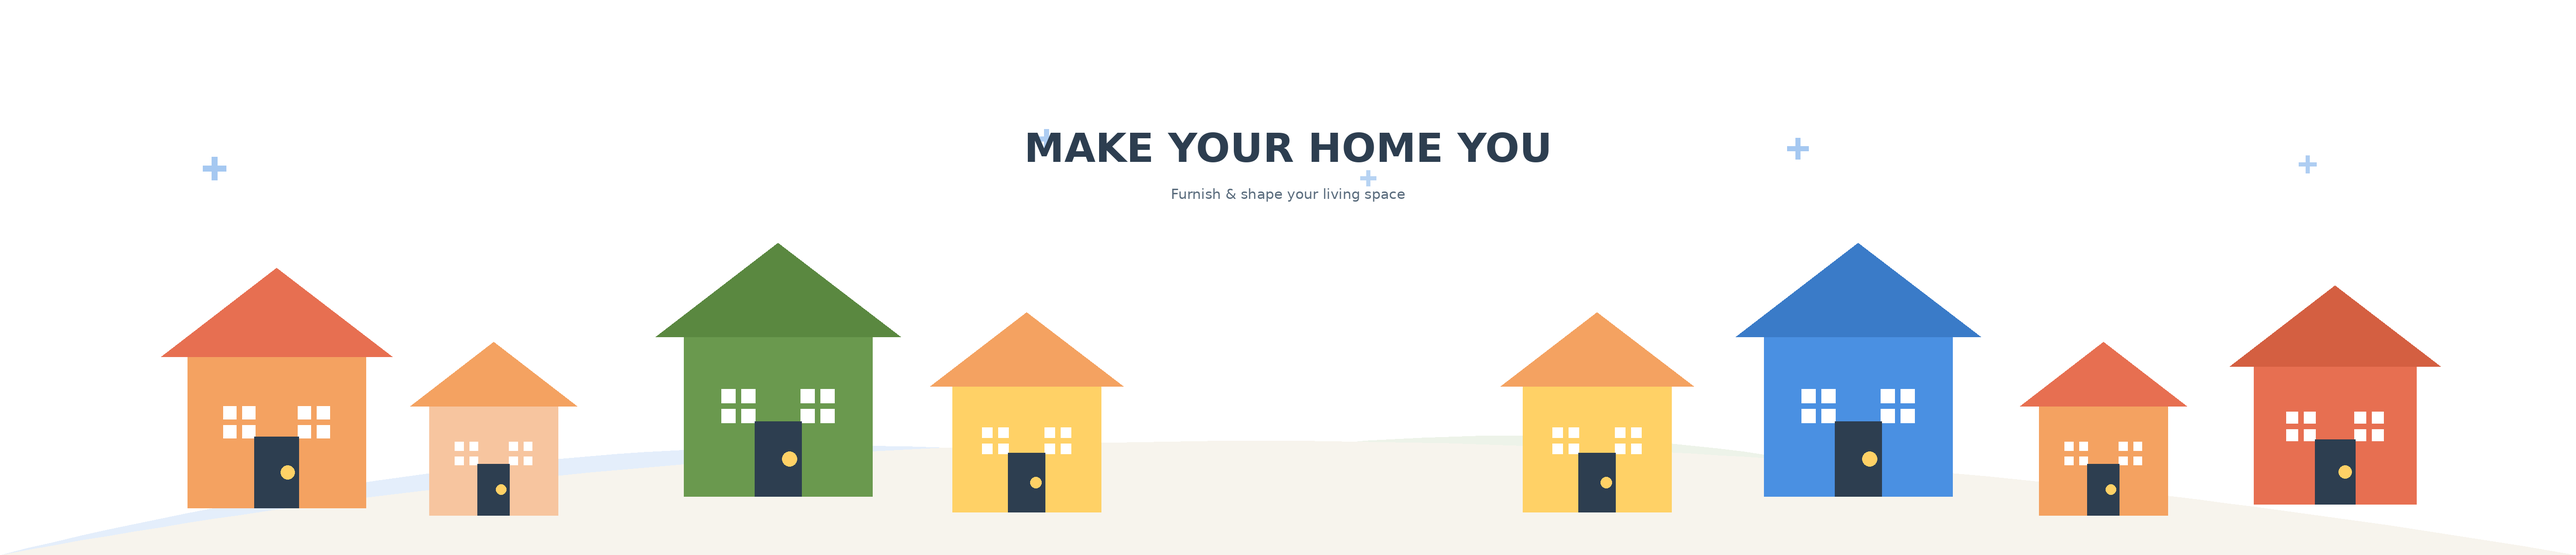
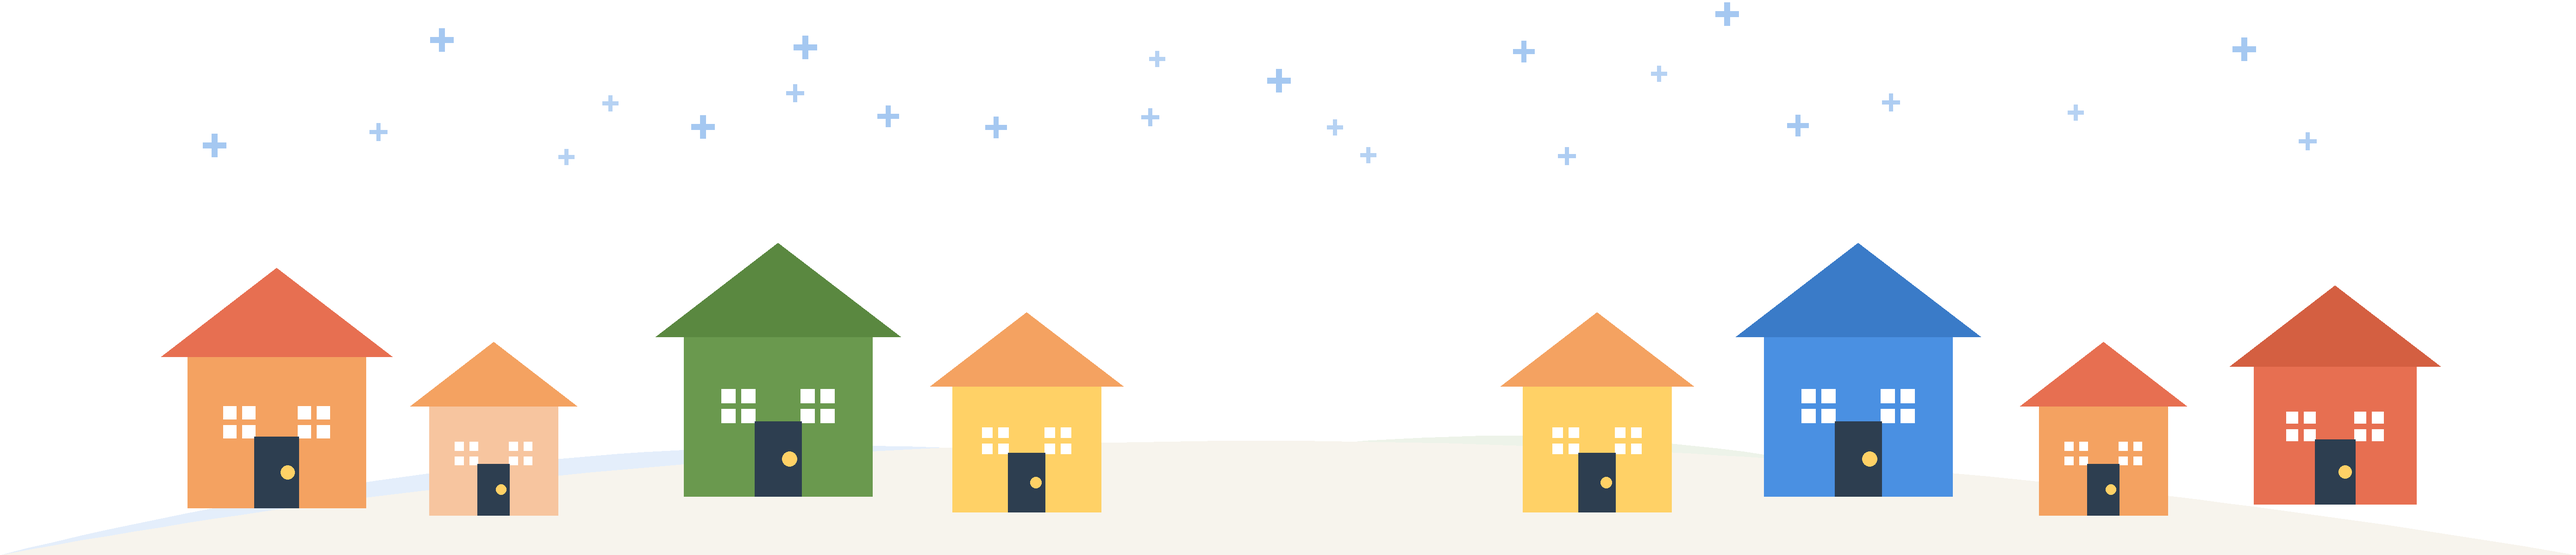
feat: update homepage hero and daily pick

diff --git a/homebuddy-react/src/components/HomePage.tsx b/homebuddy-react/src/components/HomePage.tsx
@@ -2,7 +2,6 @@
 "use client";
 
 import Link from "next/link";
-import Image from "next/image";
 import { useEffect, useState } from "react";
 import { useRouter } from "next/navigation";
 import SplitText from "./SplitText";
@@ -25,6 +24,39 @@ export type CategoryRow = {
   slug: string;
   products: GroupedProductCard[];
 };
+
+type DailyRecommendation = {
+  product: GroupedProductCard;
+  categorySlug: string;
+};
+
+function getDailyRecommendedProduct(rows: CategoryRow[]): DailyRecommendation | null {
+  const inStock: DailyRecommendation[] = [];
+  const all: DailyRecommendation[] = [];
+
+  for (const row of rows) {
+    for (const product of row.products) {
+      const item = { product, categorySlug: row.slug };
+      all.push(item);
+      if (product.anyInStock) {
+        inStock.push(item);
+      }
+    }
+  }
+
+  const pool = inStock.length > 0 ? inStock : all;
+  if (pool.length === 0) return null;
+
+  const today = new Date();
+  const seed = `${today.getUTCFullYear()}-${today.getUTCMonth() + 1}-${today.getUTCDate()}`;
+  let hash = 0;
+  for (let i = 0; i < seed.length; i += 1) {
+    hash = (hash * 31 + seed.charCodeAt(i)) >>> 0;
+  }
+
+  const index = hash % pool.length;
+  return pool[index];
+}
 
 const PRODUCTS_PER_ROW = 12;
 
@@ -95,6 +127,7 @@ export default function HomePage() {
   const [searchInput, setSearchInput] = useState("");
   const [categoryRows, setCategoryRows] = useState<CategoryRow[]>([]);
   const [rowsLoading, setRowsLoading] = useState(true);
+  const [dailyRecommendation, setDailyRecommendation] = useState<DailyRecommendation | null>(null);
 
   useEffect(() => {
     const load = async () => {
@@ -134,6 +167,12 @@ export default function HomePage() {
     load();
   }, []);
 
+  useEffect(() => {
+    if (!rowsLoading && categoryRows.length > 0) {
+      setDailyRecommendation(getDailyRecommendedProduct(categoryRows));
+    }
+  }, [rowsLoading, categoryRows]);
+
   const handleSearch = (e: React.FormEvent) => {
     e.preventDefault();
     const q = searchInput.trim();
@@ -143,8 +182,21 @@ export default function HomePage() {
 
   return (
     <div className="min-h-screen overflow-x-hidden" style={{ backgroundColor: "#FAF3E0" }}>
+      {/* HomeBuddy top banner */}
+      <section className="w-full pt-10 pb-4 flex items-center justify-center">
+        <h1 className="homebuddy-page-banner">HomeBuddy</h1>
+      </section>
+
       {/* Compact Hero - Storefront feel */}
-      <section className="relative px-6 pt-20 pb-12 md:pt-28 md:pb-16 overflow-hidden">
+      <section
+        className="relative px-6 pt-12 pb-12 md:pt-20 md:pb-16 overflow-hidden"
+        style={{
+          backgroundImage: "url('/HomeBuddy-HEADER.png')",
+          backgroundSize: "cover",
+          backgroundPosition: "center",
+          backgroundRepeat: "no-repeat",
+        }}
+      >
         <div className="absolute top-10 right-0 w-48 h-48 rounded-full opacity-30 blur-3xl" style={{ background: "linear-gradient(135deg, #F4A261 0%, #E76F51 100%)" }} />
         <div className="absolute bottom-0 left-0 w-64 h-64 rounded-full opacity-20 blur-3xl" style={{ background: "linear-gradient(135deg, #6A994E 0%, #4A90E2 100%)" }} />
 
@@ -214,15 +266,22 @@ export default function HomePage() {
               </AnimatedContent>
             </div>
             <AnimatedContent delay={0.2} distance={40} direction="horizontal" reverse>
-              <div className="relative w-full lg:w-80 xl:w-96 aspect-square rounded-2xl overflow-hidden border-2 shadow-2xl" style={{ borderColor: "#E8DCC4", backgroundColor: "#F5ECD4" }}>
-                <Image
-                  src="/HomeBuddy-HEADER.png"
-                  alt="HomeBuddy - Tools and supplies"
-                  fill
-                  className="object-cover"
-                  priority
-                  sizes="(max-width: 1024px) 100vw, 24rem"
-                />
+              <div
+                className="hidden lg:flex w-full lg:w-80 xl:w-96 aspect-square rounded-2xl border-2 shadow-2xl bg-white/70 backdrop-blur-sm flex-col p-4"
+                style={{ borderColor: "#E8DCC4" }}
+              >
+                <div className="text-[10px] font-bold tracking-[0.2em] uppercase text-center mb-2" style={{ color: "#5A6C7D" }}>
+                  Recommended product of the day
+                </div>
+                <div className="flex-1 min-h-0">
+                  {dailyRecommendation ? (
+                    <ProductCard product={dailyRecommendation.product} categorySlug={dailyRecommendation.categorySlug} />
+                  ) : (
+                    <div className="w-full h-full grid place-items-center text-xs" style={{ color: "#8B9CAE" }}>
+                      Loading today&apos;s pick...
+                    </div>
+                  )}
+                </div>
               </div>
             </AnimatedContent>
           </div>
@@ -328,6 +387,31 @@ export default function HomePage() {
           <TrustedBrandsBlock />
         </div>
       </section>
+      <style jsx>{`
+        .homebuddy-page-banner {
+          font-family: "Segoe Script", "Comic Sans MS", "Bradley Hand", cursive, system-ui, -apple-system,
+            BlinkMacSystemFont, "Segoe UI", sans-serif;
+          font-size: clamp(3rem, 8vw, 5rem);
+          font-weight: 600;
+          letter-spacing: 0.08em;
+          text-transform: none;
+          color: #2d3e50;
+          text-align: center;
+          opacity: 0;
+          animation: homebuddy-page-fade 4.5s ease-in-out forwards;
+        }
+
+        @keyframes homebuddy-page-fade {
+          0% {
+            opacity: 0;
+            transform: translateY(-8px);
+          }
+          100% {
+            opacity: 1;
+            transform: translateY(0);
+          }
+        }
+      `}</style>
     </div>
   );
 }
